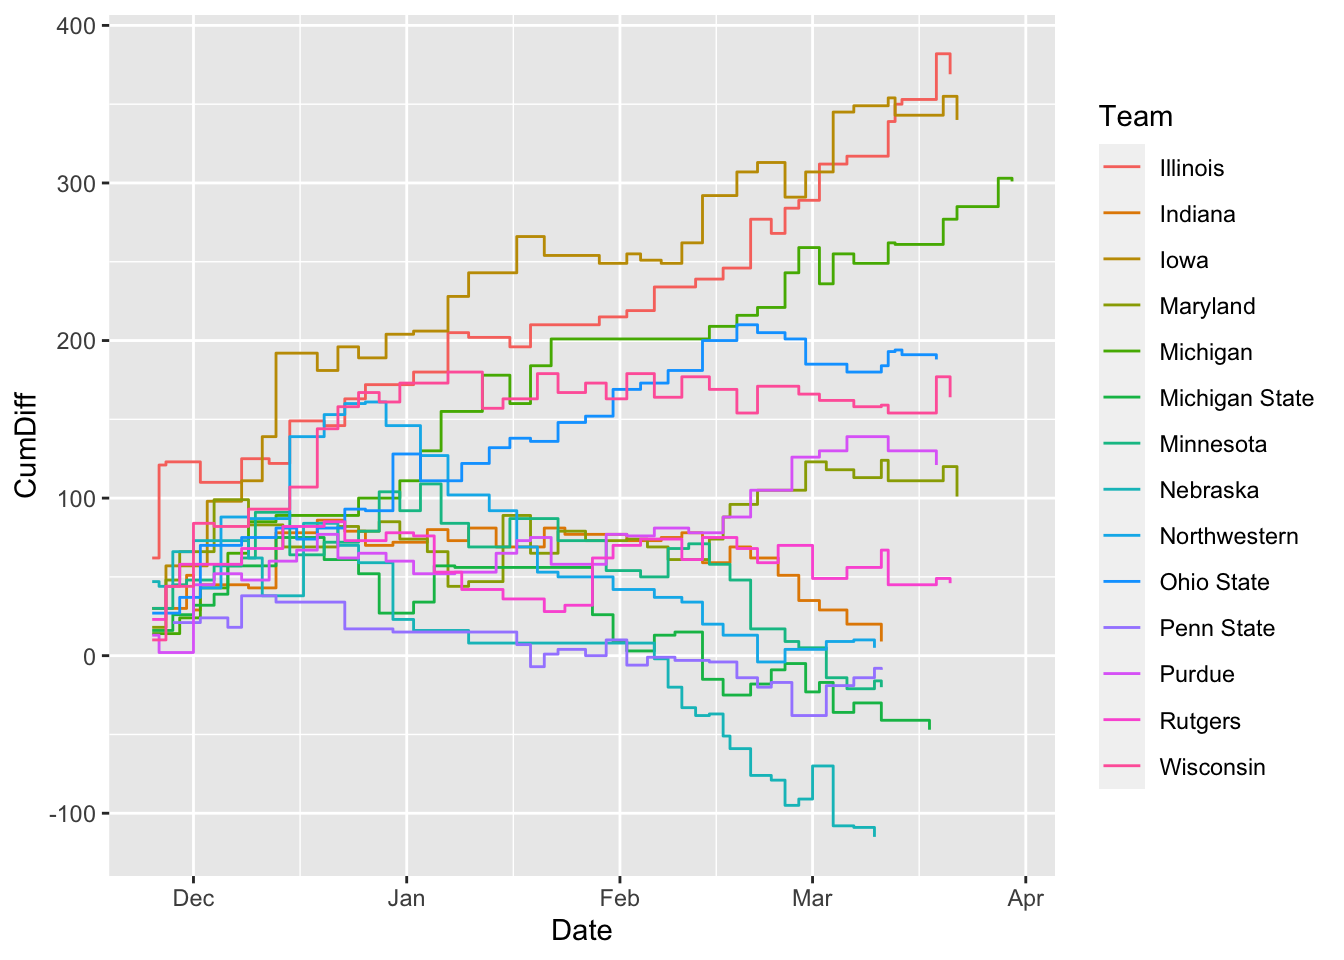
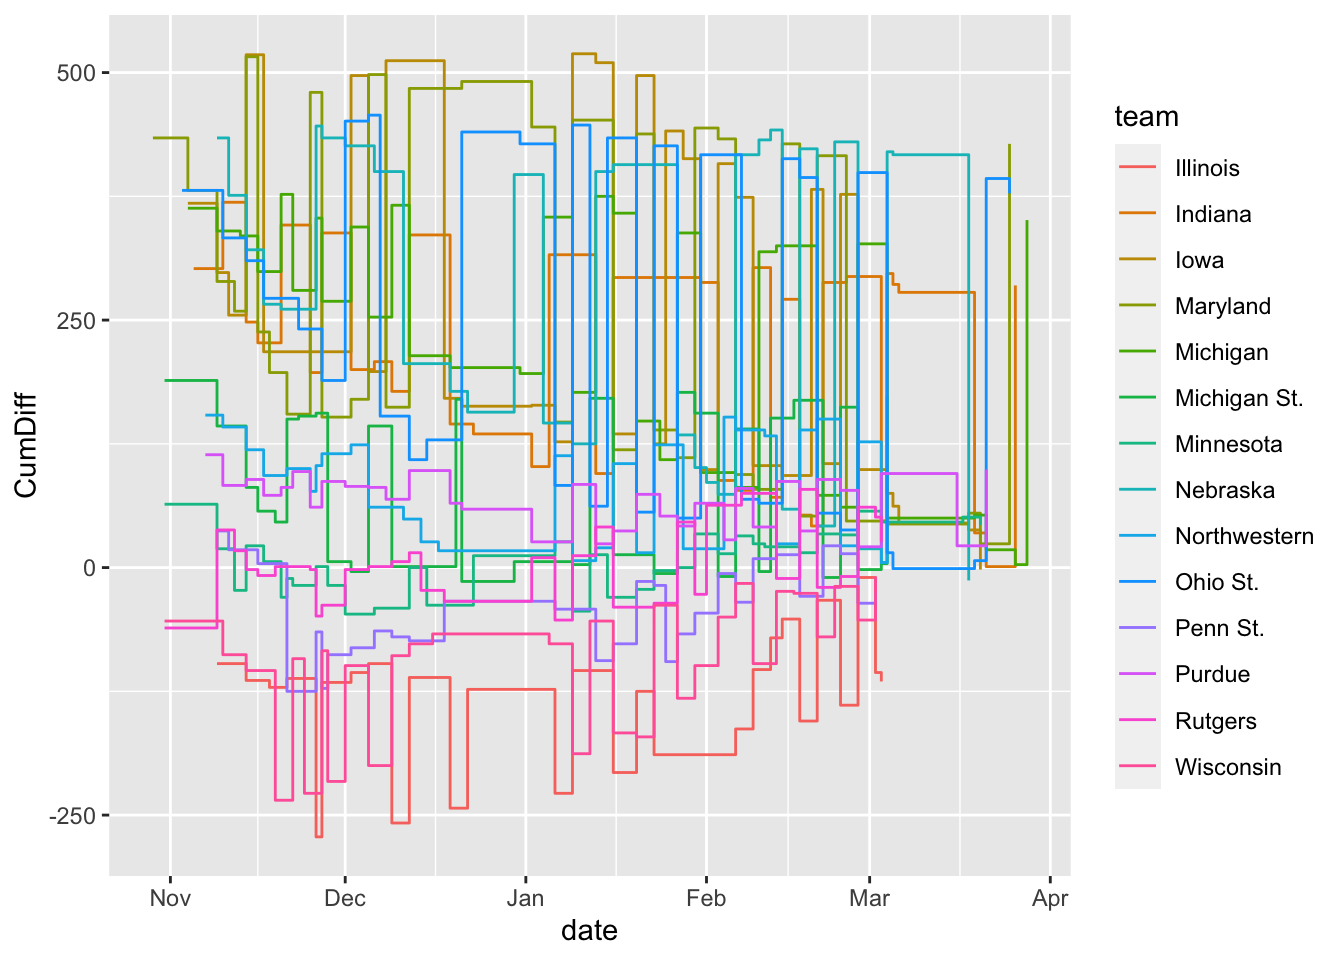
updated stepcharts

diff --git a/_book/stepcharts.html b/_book/stepcharts.html
@@ -369,11 +369,11 @@ code span.wa { color: #60a0b0; font-weight: bold; font-style: italic; } /* Warni
 </header>
 
 <p>Step charts are <strong>a method of showing progress</strong> toward something. They combine showing change over time – <strong>cumulative change over time</strong> – with magnitude. They’re good at inviting comparison.</p>
-<p>There’s great examples out there. First is the Washignton Post looking at <a href="https://www.washingtonpost.com/graphics/sports/lebron-james-michael-jordan-nba-scoring-list/?utm_term=.481074150849">Lebron passing Jordan’s career point total</a>. Another is John Burn-Murdoch’s work at the Financial Times (which is paywalled) about soccer stars. <a href="http://johnburnmurdoch.github.io/projects/goal-lines/CL/">Here’s an example of his work outside the paywall</a>.</p>
+<p>There’s great examples out there. First is the Washington Post looking at <a href="https://www.washingtonpost.com/graphics/sports/lebron-james-michael-jordan-nba-scoring-list/?utm_term=.481074150849">Lebron passing Jordan’s career point total</a>. Another is John Burn-Murdoch’s work at the Financial Times (which is paywalled) about soccer stars. <a href="http://johnburnmurdoch.github.io/projects/goal-lines/CL/">Here’s an example of his work outside the paywall</a>.</p>
 <p>To replicate this, we need cumulative data – data that is the running total of data at a given point. So think of it this way – Maryland scores 50 points in a basketball game and then 50 more the next, their cumulative total at two games is 100 points.</p>
 <p>Step charts can be used for all kinds of things – showing how a player’s career has evolved over time, how a team fares over a season, or franchise history. Let’s walk through an example.</p>
-<p>Let’s look at Fred Hoiberg’s team last season.</p>
-<pre><p><strong>For this walkthrough:</strong></p><p><a href="https://dwillis.github.io/sports-data-files/logs21.csv">
+<p>Let’s look at Maryland’s women basketball team last season.</p>
+<pre><p><strong>For this walkthrough:</strong></p><p><a href="https://dwillis.github.io/sports-data-files/wbb_game_logs_2022.csv">
   <button class="btn btn-danger"><i class="fa fa-save"></i> Download csv file</button>
 </a></p></pre>
 <p>We’ll need the tidyverse.</p>
@@ -382,14 +382,15 @@ code span.wa { color: #60a0b0; font-weight: bold; font-style: italic; } /* Warni
 </div>
 <p>And we need to load our logs data we just downloaded.</p>
 <div class="cell">
-<div class="sourceCode cell-code" id="cb2"><pre class="sourceCode r code-with-copy"><code class="sourceCode r"><span id="cb2-1"><a href="#cb2-1" aria-hidden="true" tabindex="-1"></a>logs <span class="ot">&lt;-</span> <span class="fu">read_csv</span>(<span class="st">"data/logs21.csv"</span>)</span></code><button title="Copy to Clipboard" class="code-copy-button"><i class="bi"></i></button></pre></div>
+<div class="sourceCode cell-code" id="cb2"><pre class="sourceCode r code-with-copy"><code class="sourceCode r"><span id="cb2-1"><a href="#cb2-1" aria-hidden="true" tabindex="-1"></a>logs <span class="ot">&lt;-</span> <span class="fu">read_csv</span>(<span class="st">"data/wbb_game_logs_2022.csv"</span>)</span></code><button title="Copy to Clipboard" class="code-copy-button"><i class="bi"></i></button></pre></div>
 <div class="cell-output cell-output-stderr">
-<pre><code>Rows: 8229 Columns: 48
+<pre><code>Rows: 30438 Columns: 110
 ── Column specification ────────────────────────────────────────────────────────
 Delimiter: ","
-chr   (8): Season, TeamFull, Opponent, HomeAway, W_L, URL, Conference, Team
-dbl  (39): Game, TeamScore, OpponentScore, TeamFG, TeamFGA, TeamFGPCT, Team3...
-date  (1): Date
+chr    (7): away_team_name, home_team_name, league, season_type, neutral_sit...
+dbl  (101): end_year, neutral_site, ncaa_game_id, win, mp, pts, fgm, fga, fg...
+date   (1): date
+time   (1): gametime_east
 
 ℹ Use `spec()` to retrieve the full column specification for this data.
 ℹ Specify the column types or set `show_col_types = FALSE` to quiet this message.</code></pre>
@@ -399,48 +400,48 @@ date  (1): Date
 <p>The first thing we’re going to do is calculate that differential. Then, we’ll group it by the team. After that, we’re going to summarize using a new function called <code>cumsum</code> or cumulative sum – the sum for each game as we go forward. So game 1’s cumsum is the differential of that game. Game 2’s cumsum is Game 1 + Game 2. Game 3 is Game 1 + 2 + 3 and so on.</p>
 <div class="cell">
 <div class="sourceCode cell-code" id="cb4"><pre class="sourceCode r code-with-copy"><code class="sourceCode r"><span id="cb4-1"><a href="#cb4-1" aria-hidden="true" tabindex="-1"></a>difflogs <span class="ot">&lt;-</span> logs <span class="sc">%&gt;%</span> </span>
-<span id="cb4-2"><a href="#cb4-2" aria-hidden="true" tabindex="-1"></a>  <span class="fu">mutate</span>(<span class="at">Differential =</span> TeamScore <span class="sc">-</span> OpponentScore) <span class="sc">%&gt;%</span> </span>
-<span id="cb4-3"><a href="#cb4-3" aria-hidden="true" tabindex="-1"></a>  <span class="fu">group_by</span>(Team) <span class="sc">%&gt;%</span> </span>
+<span id="cb4-2"><a href="#cb4-2" aria-hidden="true" tabindex="-1"></a>  <span class="fu">mutate</span>(<span class="at">Differential =</span> pts <span class="sc">-</span> opp_pts) <span class="sc">%&gt;%</span> </span>
+<span id="cb4-3"><a href="#cb4-3" aria-hidden="true" tabindex="-1"></a>  <span class="fu">group_by</span>(team) <span class="sc">%&gt;%</span> </span>
 <span id="cb4-4"><a href="#cb4-4" aria-hidden="true" tabindex="-1"></a>  <span class="fu">mutate</span>(<span class="at">CumDiff =</span> <span class="fu">cumsum</span>(Differential))</span></code><button title="Copy to Clipboard" class="code-copy-button"><i class="bi"></i></button></pre></div>
 </div>
 <p>Now that we have the cumulative sum for each, let’s filter it down to just Big Ten teams.</p>
 <div class="cell">
-<div class="sourceCode cell-code" id="cb5"><pre class="sourceCode r code-with-copy"><code class="sourceCode r"><span id="cb5-1"><a href="#cb5-1" aria-hidden="true" tabindex="-1"></a>bigdiff <span class="ot">&lt;-</span> difflogs <span class="sc">%&gt;%</span> <span class="fu">filter</span>(Conference <span class="sc">==</span> <span class="st">"Big Ten"</span>)</span></code><button title="Copy to Clipboard" class="code-copy-button"><i class="bi"></i></button></pre></div>
+<div class="sourceCode cell-code" id="cb5"><pre class="sourceCode r code-with-copy"><code class="sourceCode r"><span id="cb5-1"><a href="#cb5-1" aria-hidden="true" tabindex="-1"></a>bigdiff <span class="ot">&lt;-</span> difflogs <span class="sc">%&gt;%</span> <span class="fu">filter</span>(conference <span class="sc">==</span> <span class="st">"Big Ten"</span>)</span></code><button title="Copy to Clipboard" class="code-copy-button"><i class="bi"></i></button></pre></div>
 </div>
 <p>The step chart is it’s own geom, so we can employ it just like we have the others. It works almost exactly the same as a line chart, but it uses the cumulative sum instead of a regular value and, as the name implies, creates a step like shape to the line instead of a curve.</p>
 <div class="cell">
-<div class="sourceCode cell-code" id="cb6"><pre class="sourceCode r code-with-copy"><code class="sourceCode r"><span id="cb6-1"><a href="#cb6-1" aria-hidden="true" tabindex="-1"></a><span class="fu">ggplot</span>() <span class="sc">+</span> <span class="fu">geom_step</span>(<span class="at">data=</span>bigdiff, <span class="fu">aes</span>(<span class="at">x=</span>Date, <span class="at">y=</span>CumDiff, <span class="at">group=</span>Team))</span></code><button title="Copy to Clipboard" class="code-copy-button"><i class="bi"></i></button></pre></div>
+<div class="sourceCode cell-code" id="cb6"><pre class="sourceCode r code-with-copy"><code class="sourceCode r"><span id="cb6-1"><a href="#cb6-1" aria-hidden="true" tabindex="-1"></a><span class="fu">ggplot</span>() <span class="sc">+</span> <span class="fu">geom_step</span>(<span class="at">data=</span>bigdiff, <span class="fu">aes</span>(<span class="at">x=</span>date, <span class="at">y=</span>CumDiff, <span class="at">group=</span>team))</span></code><button title="Copy to Clipboard" class="code-copy-button"><i class="bi"></i></button></pre></div>
 <div class="cell-output-display">
 <p><img src="stepcharts_files/figure-html/unnamed-chunk-6-1.png" class="img-fluid" width="672"></p>
 </div>
 </div>
 <p>Let’s try a different element of the aesthetic: color, but this time inside the aesthetic. Last time, we did the color outside. When you put it inside, you pass it a column name and ggplot will color each line based on what thing that is, and it will create a legend that labels each line that thing.</p>
 <div class="cell">
-<div class="sourceCode cell-code" id="cb7"><pre class="sourceCode r code-with-copy"><code class="sourceCode r"><span id="cb7-1"><a href="#cb7-1" aria-hidden="true" tabindex="-1"></a><span class="fu">ggplot</span>() <span class="sc">+</span> <span class="fu">geom_step</span>(<span class="at">data=</span>bigdiff, <span class="fu">aes</span>(<span class="at">x=</span>Date, <span class="at">y=</span>CumDiff, <span class="at">group=</span>Team, <span class="at">color=</span>Team))</span></code><button title="Copy to Clipboard" class="code-copy-button"><i class="bi"></i></button></pre></div>
+<div class="sourceCode cell-code" id="cb7"><pre class="sourceCode r code-with-copy"><code class="sourceCode r"><span id="cb7-1"><a href="#cb7-1" aria-hidden="true" tabindex="-1"></a><span class="fu">ggplot</span>() <span class="sc">+</span> <span class="fu">geom_step</span>(<span class="at">data=</span>bigdiff, <span class="fu">aes</span>(<span class="at">x=</span>date, <span class="at">y=</span>CumDiff, <span class="at">group=</span>team, <span class="at">color=</span>team))</span></code><button title="Copy to Clipboard" class="code-copy-button"><i class="bi"></i></button></pre></div>
 <div class="cell-output-display">
 <p><img src="stepcharts_files/figure-html/unnamed-chunk-7-1.png" class="img-fluid" width="672"></p>
 </div>
 </div>
 <p>From this, we can see a handful of teams in the Big Ten had negative point differentials last season. But which is which? And which one is Maryland? Too many colors and it’s too hard to tell. How to sort that out? Let’s add some helpers beyond layering.</p>
-<p>Let’s look at the top team plus Maryland.</p>
+<p>Let’s look at Maryland, plus another team: Purdue.</p>
 <div class="cell">
-<div class="sourceCode cell-code" id="cb8"><pre class="sourceCode r code-with-copy"><code class="sourceCode r"><span id="cb8-1"><a href="#cb8-1" aria-hidden="true" tabindex="-1"></a>umd <span class="ot">&lt;-</span> bigdiff <span class="sc">%&gt;%</span> <span class="fu">filter</span>(Team <span class="sc">==</span> <span class="st">"Maryland"</span>)</span>
-<span id="cb8-2"><a href="#cb8-2" aria-hidden="true" tabindex="-1"></a>il <span class="ot">&lt;-</span> bigdiff <span class="sc">%&gt;%</span> <span class="fu">filter</span>(Team <span class="sc">==</span> <span class="st">"Illinois"</span>)</span></code><button title="Copy to Clipboard" class="code-copy-button"><i class="bi"></i></button></pre></div>
+<div class="sourceCode cell-code" id="cb8"><pre class="sourceCode r code-with-copy"><code class="sourceCode r"><span id="cb8-1"><a href="#cb8-1" aria-hidden="true" tabindex="-1"></a>umd <span class="ot">&lt;-</span> bigdiff <span class="sc">%&gt;%</span> <span class="fu">filter</span>(team <span class="sc">==</span> <span class="st">"Maryland"</span>)</span>
+<span id="cb8-2"><a href="#cb8-2" aria-hidden="true" tabindex="-1"></a>pu <span class="ot">&lt;-</span> bigdiff <span class="sc">%&gt;%</span> <span class="fu">filter</span>(team <span class="sc">==</span> <span class="st">"Purdue"</span>)</span></code><button title="Copy to Clipboard" class="code-copy-button"><i class="bi"></i></button></pre></div>
 </div>
 <p>Let’s introduce a couple of new things here. First, note when I take the color OUT of the aesthetic, the legend disappears.</p>
 <p>The second thing I’m going to add is the annotation layer. In this case, I am adding a text annotation layer, and I can specify where by adding in a x and a y value where I want to put it. This takes some finesse. After that, I’m going to add labels and a theme.</p>
 <div class="cell">
 <div class="sourceCode cell-code" id="cb9"><pre class="sourceCode r code-with-copy"><code class="sourceCode r"><span id="cb9-1"><a href="#cb9-1" aria-hidden="true" tabindex="-1"></a><span class="fu">ggplot</span>() <span class="sc">+</span> </span>
-<span id="cb9-2"><a href="#cb9-2" aria-hidden="true" tabindex="-1"></a>  <span class="fu">geom_step</span>(<span class="at">data=</span>bigdiff, <span class="fu">aes</span>(<span class="at">x=</span>Date, <span class="at">y=</span>CumDiff, <span class="at">group=</span>Team), <span class="at">color=</span><span class="st">"light grey"</span>) <span class="sc">+</span></span>
-<span id="cb9-3"><a href="#cb9-3" aria-hidden="true" tabindex="-1"></a>  <span class="fu">geom_step</span>(<span class="at">data=</span>umd, <span class="fu">aes</span>(<span class="at">x=</span>Date, <span class="at">y=</span>CumDiff, <span class="at">group=</span>Team), <span class="at">color=</span><span class="st">"red"</span>) <span class="sc">+</span> </span>
-<span id="cb9-4"><a href="#cb9-4" aria-hidden="true" tabindex="-1"></a>  <span class="fu">geom_step</span>(<span class="at">data=</span>il, <span class="fu">aes</span>(<span class="at">x=</span>Date, <span class="at">y=</span>CumDiff, <span class="at">group=</span>Team), <span class="at">color=</span><span class="st">"orange"</span>) <span class="sc">+</span></span>
-<span id="cb9-5"><a href="#cb9-5" aria-hidden="true" tabindex="-1"></a>  <span class="fu">annotate</span>(<span class="st">"text"</span>, <span class="at">x=</span>(<span class="fu">as.Date</span>(<span class="st">"2021-02-10"</span>)), <span class="at">y=</span><span class="sc">-</span><span class="dv">70</span>, <span class="at">label=</span><span class="st">"Maryland"</span>) <span class="sc">+</span></span>
-<span id="cb9-6"><a href="#cb9-6" aria-hidden="true" tabindex="-1"></a>  <span class="fu">annotate</span>(<span class="st">"text"</span>, <span class="at">x=</span>(<span class="fu">as.Date</span>(<span class="st">"2021-03-01"</span>)), <span class="at">y=</span><span class="dv">330</span>, <span class="at">label=</span><span class="st">"Illinois"</span>) <span class="sc">+</span></span>
+<span id="cb9-2"><a href="#cb9-2" aria-hidden="true" tabindex="-1"></a>  <span class="fu">geom_step</span>(<span class="at">data=</span>bigdiff, <span class="fu">aes</span>(<span class="at">x=</span>date, <span class="at">y=</span>CumDiff, <span class="at">group=</span>team), <span class="at">color=</span><span class="st">"light grey"</span>) <span class="sc">+</span></span>
+<span id="cb9-3"><a href="#cb9-3" aria-hidden="true" tabindex="-1"></a>  <span class="fu">geom_step</span>(<span class="at">data=</span>umd, <span class="fu">aes</span>(<span class="at">x=</span>date, <span class="at">y=</span>CumDiff, <span class="at">group=</span>team), <span class="at">color=</span><span class="st">"red"</span>) <span class="sc">+</span> </span>
+<span id="cb9-4"><a href="#cb9-4" aria-hidden="true" tabindex="-1"></a>  <span class="fu">geom_step</span>(<span class="at">data=</span>pu, <span class="fu">aes</span>(<span class="at">x=</span>date, <span class="at">y=</span>CumDiff, <span class="at">group=</span>team), <span class="at">color=</span><span class="st">"gold"</span>) <span class="sc">+</span></span>
+<span id="cb9-5"><a href="#cb9-5" aria-hidden="true" tabindex="-1"></a>  <span class="fu">annotate</span>(<span class="st">"text"</span>, <span class="at">x=</span>(<span class="fu">as.Date</span>(<span class="st">"2021-11-10"</span>)), <span class="at">y=</span><span class="dv">70</span>, <span class="at">label=</span><span class="st">"Purdue"</span>) <span class="sc">+</span></span>
+<span id="cb9-6"><a href="#cb9-6" aria-hidden="true" tabindex="-1"></a>  <span class="fu">annotate</span>(<span class="st">"text"</span>, <span class="at">x=</span>(<span class="fu">as.Date</span>(<span class="st">"2022-02-01"</span>)), <span class="at">y=</span><span class="dv">330</span>, <span class="at">label=</span><span class="st">"Maryland"</span>) <span class="sc">+</span></span>
 <span id="cb9-7"><a href="#cb9-7" aria-hidden="true" tabindex="-1"></a>  <span class="fu">labs</span>(</span>
 <span id="cb9-8"><a href="#cb9-8" aria-hidden="true" tabindex="-1"></a>    <span class="at">x=</span><span class="st">"Date"</span>, </span>
 <span id="cb9-9"><a href="#cb9-9" aria-hidden="true" tabindex="-1"></a>    <span class="at">y=</span><span class="st">"Cumulative Point Differential"</span>, </span>
-<span id="cb9-10"><a href="#cb9-10" aria-hidden="true" tabindex="-1"></a>    <span class="at">title=</span><span class="st">"Maryland's late charge"</span>, </span>
-<span id="cb9-11"><a href="#cb9-11" aria-hidden="true" tabindex="-1"></a>    <span class="at">subtitle=</span><span class="st">"The Terps started solidly but didn't gain much until late in the season."</span>, </span>
+<span id="cb9-10"><a href="#cb9-10" aria-hidden="true" tabindex="-1"></a>    <span class="at">title=</span><span class="st">"Ups and Downs for Maryland, Purdue Steadier"</span>, </span>
+<span id="cb9-11"><a href="#cb9-11" aria-hidden="true" tabindex="-1"></a>    <span class="at">subtitle=</span><span class="st">"The Terps had some big swings in point differential in an inconsistent season."</span>, </span>
 <span id="cb9-12"><a href="#cb9-12" aria-hidden="true" tabindex="-1"></a>    <span class="at">caption=</span><span class="st">"Source: Sports-Reference.com | By Derek Willis"</span>) <span class="sc">+</span></span>
 <span id="cb9-13"><a href="#cb9-13" aria-hidden="true" tabindex="-1"></a>  <span class="fu">theme_minimal</span>()</span></code><button title="Copy to Clipboard" class="code-copy-button"><i class="bi"></i></button></pre></div>
 <div class="cell-output-display">
